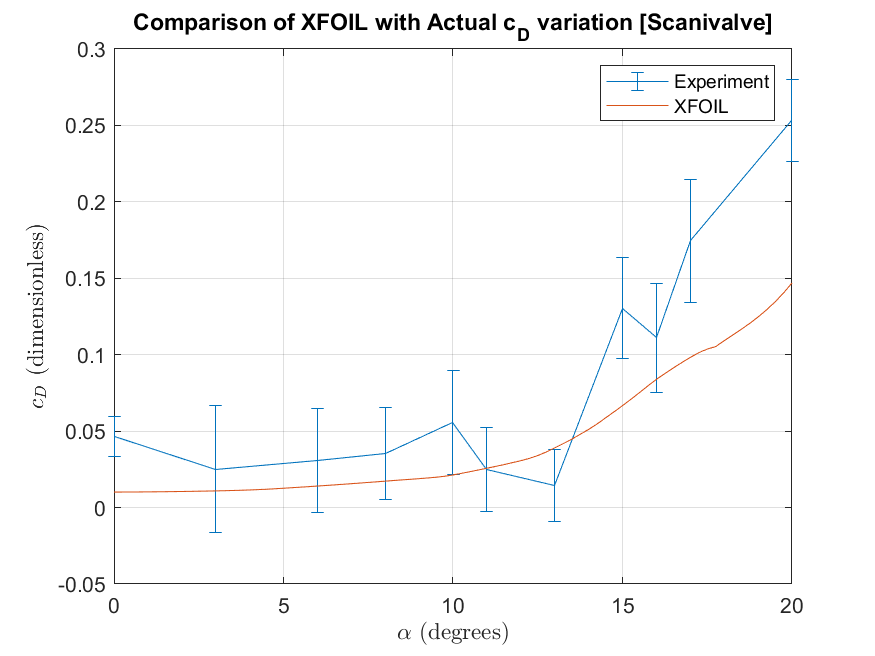
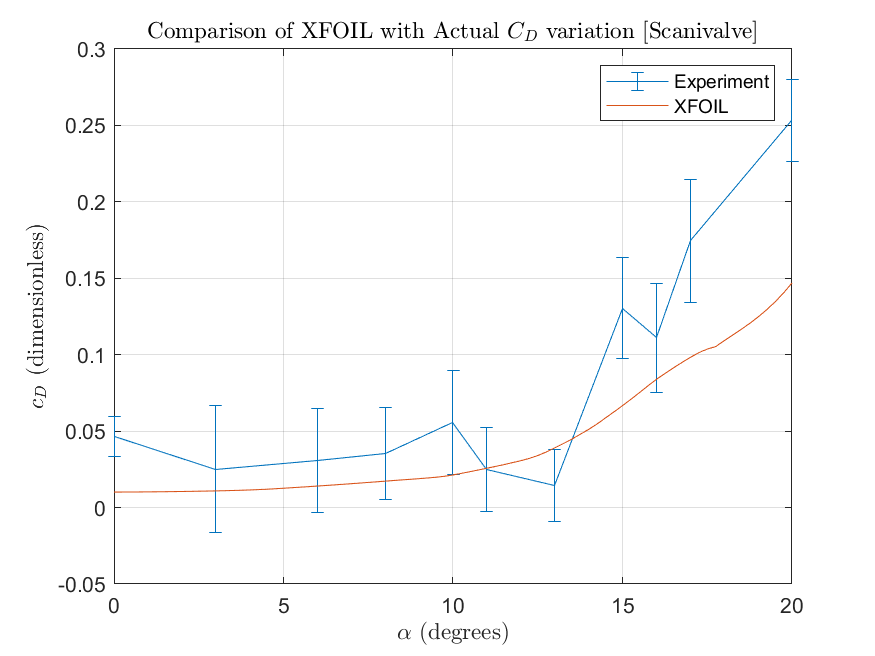
More details on wake velocity, drag data

Changed region(s): [[0.1543, 0.0, 0.8949, 0.061]]

diff --git a/source_latex/main.tex b/source_latex/main.tex
@@ -174,33 +174,33 @@ The lift of the airfoil is defined as the net force exerted on the airfoil norma
 \end{figure}
 
 Lift, drag, and moment are nondimensionalized using Equations \ref{eq:cl}, \ref{eq:cd}, and \ref{eq:cm} respectively where\\
-$q_\infty\equiv\frac{1}{2}\rho_\infty U_\infty^2$ is the freestream dynamic pressure and $C$ is the chord length.
+$q_\infty\equiv\frac{1}{2}\rho_\infty U_\infty^2$ is the freestream dynamic pressure and $c$ is the chord length.
 
 \begin{align}
-    C_L &= \frac{L'}{q_\infty C}
+    C_L &= \frac{L'}{q_\infty c}
     \label{eq:cl}\\
-    C_D &= \frac{D'}{q_\infty C}
+    C_D &= \frac{D'}{q_\infty c}
     \label{eq:cd}\\
-    C_M &= \frac{M'}{q_\infty C^2}
+    C_M &= \frac{M'}{q_\infty c^2}
     \label{eq:cm}
 \end{align}
 
 \subsection{Calculating Total Drag from Wake Velocity}
-The drag force formulation from above ignore viscous effects, because this experiment cannot directly measure the shear force distribution over the surface of the airfoil. Instead, total drag calculation is performed by performing a momentum balance in a control volume containing the airfoil.
-\begin{align*}
-    D' &= \rho\int u (U_\infty - u) dy
-\end{align*}
+The drag force formulation from above ignores viscous effects, because this experiment cannot directly measure the shear force distribution over the surface of the airfoil. That means the force in Equation \ref{eq:drag} only gives pressure drag. Instead, total drag calculation is performed by performing a momentum balance in a control volume containing the airfoil, to determine how much the airfoil has decelerated the 
+\begin{align}
+    D' &= \rho\int_{\text{rake}} u (U_\infty - u) dy \label{eq:wake_drag}
+\end{align}
 
 \subsection{Stall}
 Airfoil stall is characterized by a significant separation in flow from the airfoil surface resulting in several effects.\\
 \\
-When flow separation occurs, the $c_P$ distribution becomes flat in the region of separation.\\
+When flow separation occurs, the $C_P$ distribution becomes flat in the region of separation.\\
 \\
-As $\alpha$ increases, $c_L$ increases linearly until it reaches a peak, and then falls sharply at stall.\\
+As $\alpha$ increases, $C_L$ increases linearly until it reaches a peak, and then falls sharply at stall.\\
 \\
-Flow separation incurs higher drag, resulting in higher $c_D$.\\
+Flow separation incurs higher drag, resulting in higher $C_D$.\\
 \\
-$c_{M, LE}$ remains a nearly constant negative value until the airfoil stalls, at which point $c_{M, LE}$ becomes zero or slightly positive.\\
+$C_{M, LE}$ remains a nearly constant negative value until the airfoil stalls, at which point $C_{M, LE}$ becomes zero or slightly positive.\\
 \\
 Such conditions lead to unpredictable behaviour of an airfoil, and reduced aircraft controlability due to reduced effectiveness of aircraft control surfaces. It is important to understand the behaviour of a varying the angle of attack on the lift, drag, and moment characteristics of an airfoil to understand the limitations of the airfoil.
 
@@ -310,8 +310,11 @@ After the data is pre-processed, the data is analyzed to determine the lift, mom
 
 \section{Results and Discussion}
 
+\subsection{XFOIL Reference}
+Results in this section are compared to data obtained from \textit{XFOIL}, a free airfoil analysis software. Reference results with XFOIL are obtained from analysis of the .dat file obtained from \href{http://airfoiltools.com/airfoil/details?airfoil=clarky-il}{airfoiltools.com}, using 240 panels nodes in the viscous solver mode at $Re = 200000$. Pressure distributions, and the dimensionless coefficients are determined for all $\alpha$ values used in the experiment.
+
 \subsection{Wake Velocity Profile}
-Wake velocities are obtained from total pressure measurements in the wake to determine the flow velocity distribution over the height of the pressure rake.
+Wake velocities are obtained from total pressure measurements in the wake to determine the flow velocity distribution over the height of the pressure rake. The freestream velocity $U_\infty$ is taken to be the mean between the measured velocity at the uppermost and bottommost rakes. Resulting total drag is computed numericall using Equation \ref{fig:total_drag} and \verb|trapz| in MATLAB. The drag coefficient $C_D$ is obtained using Equation \ref{eq:cd}. Wake velocity and 
 \begin{figure}
     \centering
     \begin{subfigure}[b]{0.45\textwidth}
@@ -329,9 +332,49 @@ Wake velocities are obtained from total pressure measurements in the wake to det
     \caption{Velocity deficit $U_\infty - u$ in the wake for each $\alpha$, from both the scanivalve and manometer data.}
     \label{fig:wake_velocities}
 \end{figure}
+\begin{figure}
+    \centering
+    \begin{subfigure}[b]{0.45\textwidth}
+         \centering
+         \includegraphics[width=\textwidth]{figures/scanivalve_cd.png}
+         \caption{}
+         \label{fig:scanivalve_wake_velocity}
+     \end{subfigure}
+     \begin{subfigure}[b]{0.45\textwidth}
+         \centering
+         \includegraphics[width=\textwidth]{figures/manometer_cd.png}
+         \caption{}
+         \label{fig:manometer_wake_velocity}
+     \end{subfigure}
+    \caption{Total drag coefficient versus XFOIL.}
+    \label{fig:total_drag_coefficient}
+\end{figure}
 
 \subsection{Coefficient of Lift, Pressure Drag, and Moment}
 
+\subsection{Pressure Drag and Total Drag Comparison}
+\begin{table}[h]
+\centering
+\begin{tabular}{p{3cm}p{3cm}p{3cm}p{3cm}p{3cm}}
+\toprule
+$\alpha^\circ$ & $D'_p$ (Scanivalve) & $D'_p$ (Manometer) & $D'$ (Scanivalve) & $D'$ (Manometer) \\
+\midrule
+ $0.00\pm0.25$ \\
+ $3.00\pm0.25$ \\
+ $6.00\pm0.25$ \\
+ $8.00\pm0.25$ \\
+$10.00\pm0.25$ \\
+$11.00\pm0.25$ \\
+$13.00\pm0.25$ \\
+$15.00\pm0.25$ \\
+$16.00\pm0.25$ \\
+$17.00\pm0.25$ \\
+$20.00\pm0.25$ \\
+\bottomrule
+\end{tabular}
+\caption{Comparison of pressure and total drag force per unit span.}
+\label{tab:pressure_comparison}
+\end{table}
 \begin{figure}
     \centering
     \begin{subfigure}[b]{0.45\textwidth}
@@ -414,10 +457,6 @@ $20.00\pm0.25$ & $0.89\pm0.25$ & $0.18\pm0.16$ & $-0.06027\pm0.00021$ \\
 \label{tab:mano_coeff}
 \end{table}
 
-\subsection{Comparison with XFOIL}
-
-Reference results with XFOIL are obtained from analysis of the .dat file obtained from \href{http://airfoiltools.com/airfoil/details?airfoil=clarky-il}{airfoiltools.com}, using 240 panels nodes in the viscous solver mode at $Re = 200000$. Pressure distributions, and the dimensionless coefficients are determined for all $\alpha$ values used in the experiment. The results as are follows:
-
 \subsection{Comparison with other experiments}
 
 Experimental performance data of a Clark Y airfoil is available in literature
@@ -471,7 +510,7 @@ The last source of a non-quantifiable source of error is the the effect of image
 
 
 \section{Conclusion}
-
+The pressure distribution and nondimensional coefficients of flow around a Clark Y airfoil were measured at 11 different angles of attack. Both sets of measurements agree well with simulations from XFOIL and literature. <TBD>
 
 % -----------------------------------------------------------------------------
 %   Bibliography

diff --git a/Code/wake_analysis/wake_analysis_scanivalve.m b/Code/wake_analysis/wake_analysis_scanivalve.m
@@ -81,3 +81,5 @@ saveas(gcf,'../../source_latex/figures/scanivalve_drag_force.png')
 % Export CSV
 writematrix(c_D, "cd_scanivalve.csv")
 writematrix(d_c_D, "cd_error_scanivalve.csv")
+writematrix(drag_force, "total_drag_scanivalve.csv")
+writematrix(d_drag_force, "total_drag_error_scanivalve.csv")

diff --git a/Code/wake_analysis/wake_analysis_manometer.m b/Code/wake_analysis/wake_analysis_manometer.m
@@ -83,3 +83,5 @@ saveas(gcf,'../../source_latex/figures/manometer_drag_force.png')
 % Export CSV
 writematrix(c_D, "cd_manometer.csv")
 writematrix(d_c_D, "cd_error_manometer.csv")
+writematrix(drag_force, "total_drag_manometer.csv")
+writematrix(d_drag_force, "total_drag_error_manometer.csv")
